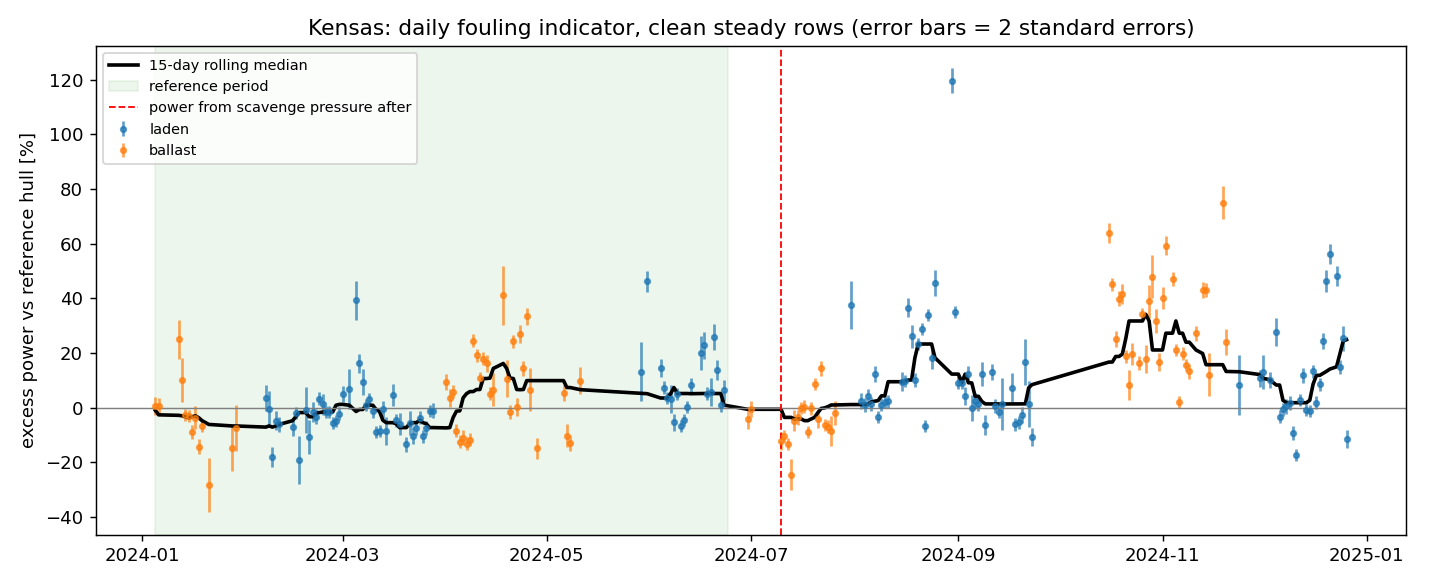
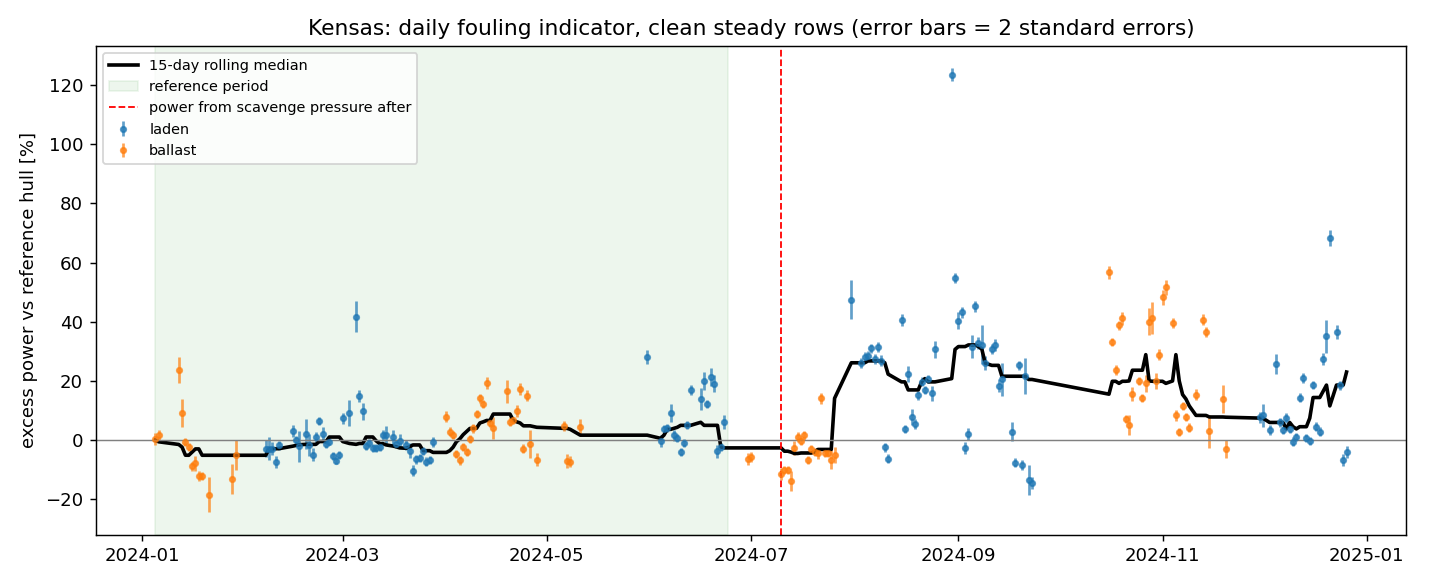
Use the speed log as speed, clean placeholder currents, mark Jan 2025
- prepare_features.py: speed_kn = speed log minus 0.73 kn on 29 Jul - 16 Oct (DQ-05), GPS minus current only as fallback (DQ-19); Provider S placeholder rows and MB all-zero currents set to NaN (DQ-06, DQ-26); waves stay S first (MB first tested, fits worse, DQ-28)
- submission.py: uses speed_kn; 'power source' column (torquemeter / scavenge / none) marks Jan 2025 rows without propulsion data (DQ-07)
- Reference-period residual spread of the expected-power fit 13.2 % -> 7.9 %; speed baseline MAPE 3.97 % -> 2.39 %
- data-quality log and README updated; fouling_trend.png regenerated

diff --git a/src/prepare_features.py b/src/prepare_features.py
@@ -9,7 +9,11 @@ What it does
        - drafts: sensors read 0 all year -> displacement, drafts and trim from the noon reports
        - power: torquemeter wrong from 10 Jul 2024 and when it drops out to 0 -> virtual power from
          scavenge air pressure and engine rpm (fuel flow is not used: the fuel meter drifts from Oct, DQ-18)
-       - speed: speed log drifts -> speed through water = GPS speed minus current along the heading
+       - weather: Provider S placeholder rows (DQ-06) and Provider MB all-zero currents (DQ-26) -> NaN
+       - speed: speed log (measured speed through water) with its offset removed on 29 Jul - 16 Oct (DQ-05);
+         the modelled currents explain too little of STW - SOG to rebuild speed from GPS (DQ-19).
+         GPS speed minus current is kept as stw_gps_kn and used where the speed log is missing
+       - waves: Provider S first (it is the only source of wave direction); MB first was tested and fits worse (DQ-28)
   3. Builds physics-based features (log power, log speed, wind and wave components)
   4. Adds filter flags (steady sailing, calm weather) and split helpers (reference period, week)
 """
@@ -28,9 +32,16 @@ PROCESSED = os.path.join(HERE, "..", "data", "processed")
 KN = 1.94384  # m/s -> knots
 TORQUE_OK_UNTIL = "2024-07-10"   # torquemeter trusted before this date
 REFERENCE_END = "2024-06-24"     # reference period for the baseline: 1 Jan to 23 Jun 2024
+STW_OFFSET = ("2024-07-29", "2024-10-17", 0.73)  # DQ-05: speed log − SOG is +1.16 kn here vs +0.43 kn laden elsewhere
+                                                  # (the period is all laden; ballast elsewhere +0.12 kn)
 
 # ---------------------------------------------------------------- 1. load
 m = pd.read_csv(os.path.join(PROCESSED, "kensas_10min.csv"), index_col="time", parse_dates=True)
+# placeholder weather -> NaN, before the hourly values are interpolated into their neighbours
+s_fill = (m.s_cur_e == -0.4) & (m.s_cur_n == -0.4) & (m.s_sst.round(1) == 6.0)          # DQ-06
+m.loc[s_fill, ["s_sst", "s_cur_e", "s_cur_n", "s_tp", "s_hs", "s_wave_deg"]] = np.nan
+mb_zero = (m.mb_cur_e == 0) & (m.mb_cur_n == 0)                                            # DQ-26
+m.loc[mb_zero, ["mb_cur_e", "mb_cur_n"]] = np.nan
 weather = [c for c in m.columns if c.startswith(("s_", "mb_"))]
 m[weather] = m[weather].interpolate(limit=6, limit_area="inside")  # hourly -> 10 min, gaps up to 1 h
 
@@ -48,15 +59,21 @@ out["draft_aft"] = noon["Aft Draft"].reindex(day).values
 out["trim_m"] = out.draft_aft - out.draft_fwd             # + = by the stern
 out["laden"] = out.disp_t > 55000
 
-# ---------------------------------------------------------------- 2b. speed through water from GPS
+# ---------------------------------------------------------------- 2b. speed through water
 h = np.deg2rad(m.heading_deg)
 cur_s = (m.s_cur_e * np.sin(h) + m.s_cur_n * np.cos(h)) * KN
 cur_mb = (m.mb_cur_e * np.sin(h) + m.mb_cur_n * np.cos(h)) * KN
 out["current_along_kn"] = pd.concat([cur_s, cur_mb], axis=1).mean(axis=1)  # + = current pushing the ship
 out["sog_kn"] = m.sog_kn
 out["stw_log_kn"] = m.stw_kn
-out["stw_gps_kn"] = m.sog_kn - out.current_along_kn                      # use this as speed
+out["stw_gps_kn"] = m.sog_kn - out.current_along_kn                      # GPS speed minus modelled current
 out["log_bias_kn"] = out.stw_log_kn - out.stw_gps_kn                      # sensor check
+# speed used by the models: the speed log, its offset removed where it reads high (DQ-05), GPS-based where it is missing
+off_from, off_to, off_kn = STW_OFFSET
+stw = out.stw_log_kn.copy()
+stw[(out.index >= pd.Timestamp(off_from, tz=out.index.tz)) & (out.index < pd.Timestamp(off_to, tz=out.index.tz))] -= off_kn
+out["speed_kn"] = stw.fillna(out.stw_gps_kn)
+out["speed_source"] = np.where(stw.notna(), "speed log", np.where(out.stw_gps_kn.notna(), "gps - current", "none"))
 
 # ---------------------------------------------------------------- 2c. power: measured, virtual, and the one to use
 out["shaft_rpm"] = m.shaft_rpm.abs()
@@ -97,7 +114,7 @@ out["power_source"] = np.where(use_meas, "torquemeter", "scavenge")
 
 # ---------------------------------------------------------------- 3. physics features
 out["log_power"] = np.log(out.power_kw.where(out.power_kw > 0))
-out["log_speed"] = np.log(out.stw_gps_kn.where(out.stw_gps_kn > 0))
+out["log_speed"] = np.log(out.speed_kn.where(out.speed_kn > 0))
 out["log_disp"] = np.log(out.disp_t)
 rel = np.deg2rad(m.wind_rel_deg)
 out["wind_rel_kn"] = m.wind_rel_kn
@@ -105,7 +122,7 @@ out["wind_head_kn"] = m.wind_rel_kn * np.cos(rel)                          # + =
 out["wind_side_kn"] = (m.wind_rel_kn * np.sin(rel)).abs()
 out["wind_head2"] = out.wind_head_kn * out.wind_rel_kn                     # ~ wind resistance, keeps the sign
 out["wind_true_kn"] = np.hypot(m.s_wind_e, m.s_wind_n) * KN
-out["hs_m"] = m.s_hs.fillna(m.mb_hs)                                       # significant wave height
+out["hs_m"] = m.s_hs.fillna(m.mb_hs)   # wave height: S first. MB first was tested (DQ-28) and fits worse: only S has wave direction
 wave_rel = np.deg2rad((m.s_wave_deg - m.heading_deg) % 360)
 out["wave_head_m"] = out.hs_m * np.cos(wave_rel)                            # + = head seas
 out["hs2"] = out.hs_m ** 2
@@ -114,7 +131,7 @@ out["sea_temp_c"] = m.s_sst            # NOT for the baseline model (acts as a c
 out["depth_m"] = m.depth_m             # echosounder, sparse
 
 # ---------------------------------------------------------------- 4. flags and split helpers
-out["steady"] = ((out.stw_gps_kn > 8) & (out.shaft_rpm > 55) & (m.shaft_rpm_sd < 1) & (m.stw_kn_sd < 0.3)
+out["steady"] = ((out.speed_kn > 8) & (out.shaft_rpm > 55) & (m.shaft_rpm_sd < 1) & (m.stw_kn_sd < 0.3)
                  & (m.sog_kn_sd < 0.3) & (m.heading_deg_sd < 2) & (m.turn_rate.abs() < 0.5)
                  & out.disp_t.notna() & (out.power_kw > 800))
 out["calm"] = (out.wind_true_kn < 16) & (out.hs_m < 2.0)

diff --git a/src/models/submission.py b/src/models/submission.py
@@ -16,6 +16,11 @@ Method
      measured power minus measured speed, using the local exponent b of the clean curve
   4. Uncertainty = robust spread of the residuals in the reference period, plus the error of the
      virtual power (scavenge air pressure + engine rpm) where the torquemeter is not used
+  Speed is `speed_kn` from prepare_features.py (speed log, offset removed on 29 Jul - 16 Oct, DQ-05).
+  Jan 2025 (blind month) has no power, torque or engine rpm at sea (DQ-07), so its rows carry speed only:
+  no expected power, fouling or speed loss can be computed there. The 'power source' column says 'none'.
+  The wind terms use the anemometer as measured; its mast-height bias (DQ-27) is constant all year, so the
+  reference-period fit absorbs it.
 """
 import os
 import numpy as np
@@ -67,7 +72,7 @@ pd.DataFrame({
 
 # ---- 2. reference-period correction on top of the clean curve
 m = pd.read_csv(os.path.join(PROCESSED, "model_table.csv"), index_col="time", parse_dates=True)
-v, p, disp = m.stw_gps_kn, m.power_kw, m.disp_t
+v, p, disp = m.speed_kn, m.power_kw, m.disp_t
 usable = (v > 5) & (p > 500) & disp.notna()
 m["p_clean"] = np.nan
 m.loc[usable, "p_clean"] = np.exp(interp_disp(fit_p, v[usable], disp[usable]))
@@ -128,7 +133,7 @@ out = pd.DataFrame({
     "outlier": m.outlier,
     # the template's free columns AAA / BBB / XXX
     "steady": m.steady,
-    "torque trusted": m.power_source == "torquemeter",
+    "power source": np.where(p.notna(), m.power_source, "none"),   # torquemeter / scavenge / none (e.g. Jan 2025)
     "laden": m.laden,
 })
 out.to_csv(os.path.join(OUT, "Kensas_Model1_Timeseries.csv"), index=False)
@@ -138,6 +143,9 @@ c = m[m.clean]
 print("reference fit on %d rows, robust residual sd %.1f%%" % (train.sum(), 100 * sd_ref))
 print("correction coefficients:", dict(zip(F, corr.coef_.round(4))), "intercept %.3f" % corr.intercept_)
 print("rows: %d total, %d with expected power, %d clean" % (len(m), ok.sum(), m.clean.sum()))
+blind = m.index >= pd.Timestamp("2025-01-01", tz=m.index.tz)
+print("Jan 2025: %d rows, %d moving above 5 kn, %d with expected power (no power or engine rpm at sea, DQ-07)"
+      % (blind.sum(), (blind & (v > 5)).sum(), (blind & ok).sum()))
 mon = c.groupby([c.index.strftime("%Y-%m"), "laden"]).agg(
     fouling_pct=("fouling_pct", "median"), speed_loss_kn=("speed_loss_kn", "median"), n=("fouling_pct", "size"))
 print(mon[mon.n >= 30].round(2).to_string())

diff --git a/docs/data_quality_log.md b/docs/data_quality_log.md
@@ -35,9 +35,9 @@ The first rows are **candidates from the first-pass scripts (19 Oct)**. They hav
 | DQ-02 | `shaft_kw`, `shaft_torque_nm` | from ~10–19 Jul 2024 | drift or bias | Torquemeter power reads about 23 % low from July: torquemeter ÷ turbocharger-based power is 1.00 (Jan – 9 Jul), 0.76 (19 Jul – 21 Sep) and 0.77 (16 Oct – Dec); scavenge-based power gives the same (branch `fix/scavenge-power` note). The larger second step in fuel per kWh (+64 % from 16 Oct) is the fuel meter (DQ-18), not the torquemeter. The torquemeter came back from the late-June port stay with the wrong sign (DQ-03), pointing to work on the sensor; a cleaning in the same stay cannot be ruled out | `01_propulsion.ipynb` §6d, §6i; `04_noon_reports.ipynb` §3b | all power readings after ~19 Jul | Raw power hides fouling | Replace power after July with air-side virtual power (scavenge pressure or turbocharger speed + engine rpm), as on branch `fix/scavenge-power` | | open (verified) | mp, 19 Oct; updated 28 Oct |
 | DQ-03 | `shaft_rpm`, `shaft_kw`, `shaft_torque_nm` | 53 days, 8 Jan – 29 Dec 2024; 118 h of 123 h in July (10–16 Jul) | sign or unit | Torquemeter reports astern (rpm about −90, negative power and torque) while the engine runs ahead (`me_rpm` about +90) and the ship sails at 13.5 kn. Engine rpm is the reference: only 722 moments (3 h) are real astern, with engine and shaft both negative | `01_propulsion.ipynb` §2, §6c | 29,415 moments, 123 h | abs() on all negatives would also flip real astern; astern counts are inflated | Flip the sign only where the engine runs ahead; keep real astern | | open (verified) | mp, 19 Oct; updated 22 Oct |
 | DQ-04 | `shaft_torque_nm` | all year | sign or unit | Logged as N·m, but power / (2π·rpm/60·torque) = 1.0000 with torque in kN·m (p1–p99: 0.973–1.028) | `01_propulsion.ipynb` §6a | all readings (1.25 M checked) | Wrong by ×1000 if used as N·m | Treat as kN·m | | open (verified) | mp, 19 Oct; updated 22 Oct |
-| DQ-05 | `stw_kn` | 29 Jul – 16 Oct 2024 | drift or bias | Speed log reads +1.2 kn above GPS speed (vs +0.3 kn before and after). The offset is the same in every heading sector (N +1.2, E +1.2, S +1.1 kn), so it is a sensor offset, not a current. Slip from GPS speed rises (laden 10 → 15 %) while slip from STW barely moves (6.8 → 8.5 %): the speed log hides a real loss. Ends right after the Sep–Oct logger gap (DQ-08) | `02_speed_navigation.ipynb` §6b, §6c, §6d | 55 days | Speed too high → fouling hidden | Use SOG for this period (currents average out over days), or STW minus 0.9 kn | | open (verified) | mp, 19 Oct; updated 28 Oct |
-| DQ-06 | `s_sst`, `s_cur_e`, `s_cur_n`, `s_tp`, `s_hs`, `s_wave_deg` | 65 days | stuck or placeholder value | Identical values in every column: 6.0, −0.4, −0.4, 1.1, 0.01, 10. 900 of the 1,212 placeholder hours are in port or at anchor: likely 'no ocean data' near land (see DQ-26 for the MB equivalent) | `mp_raw_inventory.ipynb` §4; `03_weather.ipynb` §1 | 1,212 of 9,304 hourly rows | Fake weather/current → wrong corrections | Set to NaN; use Provider MB where available | | open (verified) | mp, 20 Oct; updated 28 Oct |
-| DQ-07 | all | Jan 2025 | missing / gap | `Jan25.csv` has a header, day-first dates, an extra column, and no torque, power, fuel or engine-load data. While the ship sails (above 8 kn, 65 h), only GPS speed (100 %), the speed log (50 %) and hourly weather remain: engine rpm (0.7 %), heading (8 %) and the ship's wind sensor (0 %) are missing at sea but present in port. Removed on purpose for the blind test | `mp_raw_inventory.ipynb` §4; `02_speed_navigation.ipynb` §1b | 65 h of sailing | No rpm- or power-based model can be applied to Jan 2025 | Speed-only method for the Jan 2025 'current condition' | | open (verified) | mp, 19 Oct; updated 28 Oct |
+| DQ-05 | `stw_kn` | 29 Jul – 16 Oct 2024 | drift or bias | Speed log reads +1.2 kn above GPS speed (vs +0.3 kn before and after). The offset is the same in every heading sector (N +1.2, E +1.2, S +1.1 kn), so it is a sensor offset, not a current. Slip from GPS speed rises (laden 10 → 15 %) while slip from STW barely moves (6.8 → 8.5 %): the speed log hides a real loss. Ends right after the Sep–Oct logger gap (DQ-08) Correction used: −0.73 kn (laden vs laden; the period is all laden) | `02_speed_navigation.ipynb` §6b, §6c, §6d | 55 days | Speed too high → fouling hidden | Use SOG for this period (currents average out over days), or STW minus 0.9 kn | | implemented in `prepare_features.py`, needs team OK | mp, 19 Oct; updated 28 Oct |
+| DQ-06 | `s_sst`, `s_cur_e`, `s_cur_n`, `s_tp`, `s_hs`, `s_wave_deg` | 65 days | stuck or placeholder value | Identical values in every column: 6.0, −0.4, −0.4, 1.1, 0.01, 10. 900 of the 1,212 placeholder hours are in port or at anchor: likely 'no ocean data' near land (see DQ-26 for the MB equivalent) | `mp_raw_inventory.ipynb` §4; `03_weather.ipynb` §1 | 1,212 of 9,304 hourly rows | Fake weather/current → wrong corrections | Set to NaN; use Provider MB where available | | implemented in `prepare_features.py`, needs team OK | mp, 20 Oct; updated 28 Oct |
+| DQ-07 | all | Jan 2025 | missing / gap | `Jan25.csv` has a header, day-first dates, an extra column, and no torque, power, fuel or engine-load data. While the ship sails (above 8 kn, 65 h), only GPS speed (100 %), the speed log (50 %) and hourly weather remain: engine rpm (0.7 %), heading (8 %) and the ship's wind sensor (0 %) are missing at sea but present in port. Removed on purpose for the blind test | `mp_raw_inventory.ipynb` §4; `02_speed_navigation.ipynb` §1b | 65 h of sailing | No rpm- or power-based model can be applied to Jan 2025 | Speed-only method for the Jan 2025 'current condition' | | implemented in `submission.py` (power source = none), needs team OK | mp, 19 Oct; updated 28 Oct |
 | DQ-08 | all ship sensors | 24 Sep – 16 Oct 2024 | missing / gap | No sensor data for 22 days (longest gap for shaft, engine and fuel signals: 538.6 h). Weather continues | `mp_raw_inventory.ipynb` §1–2 | 22 days | Hole in the fouling trend right when it matters most | Keep the gap; never interpolate across it | | open | mp, 20 Oct |
 | DQ-09 | `shaft_rpm`, `shaft_kw`, `shaft_torque_nm` | — | — | **Merged into DQ-03.** The earlier reading (most negatives outside July are astern manoeuvres) was wrong: with engine rpm as the reference, most negatives are the sign fault and real astern is only 722 moments | `01_propulsion.ipynb` §2 | — | — | — | | rejected (merged into DQ-03) | mp, 20 Oct; updated 22 Oct |
 | DQ-10 | `shaft_kwh` | 13 Jan, 21 Jan, 14 Feb, 24 Feb, 1 Mar, 20 Mar, 26 May, 27 Aug 2024 | other | Energy counter goes down 8 times (largest −277,624 kWh on 20 Mar). Otherwise it matches integrated shaft power (ratio 0.999 per hour) | `01_propulsion.ipynb` §6g | 8 steps | Wrong if energy is computed from counter differences | Treat a decrease as a counter reset | | open (verified) | mp, 20 Oct; updated 22 Oct |
@@ -49,16 +49,16 @@ The first rows are **candidates from the first-pass scripts (19 Oct)**. They hav
 | DQ-16 | `thrust_kn` | all year | sign or unit | Logged thrust about −9,172 'kN' at 4–6 MW, where physics (towing-tank resistance / (1 − t)) gives +700 to +900 kN: negative and about 11× too large. Unit or calibration unknown. Also goes to 0 with the torquemeter dropouts (DQ-14) | `01_propulsion.ipynb` §6f | all readings | Absolute thrust unusable | Use only as a relative signal, or not at all | | open | mp, 22 Oct |
 | DQ-17 | `shaft_revs` | all year | sign or unit | Revolution counter rises 59.9× faster than integrated shaft rpm: it counts 1/60 revolution (or rpm-seconds), not revolutions. No unit in the metadata | `01_propulsion.ipynb` §6g | all readings | Wrong if read as revolutions | Divide by 60, or don't use | | open | mp, 22 Oct |
 | DQ-18 | `fo_kgh` | from 16 Oct 2024 | drift or bias | Fuel meter reads about 16 % high from mid-October: at the same load (2.5–3.5 MW band) fuel-based ÷ turbocharger-based power goes from 1.01 (Jan – 9 Jul, 454 h) to 1.18 (16 Oct – Dec, 1,066 h), while scavenge-based and turbocharger-based power agree all year. Noon-report fuel does not show the shift because it is most likely read from the same meter (DQ-29). An earlier version of this row was rejected on the noon evidence; that rejection was wrong | `04_noon_reports.ipynb` §3b | all fuel readings after 16 Oct | Fuel-based power or fuel-based fouling indicators show fake fouling after October | Don't use fuel after 16 Oct without a correction; use air-side virtual power | | open (verified) | mp, 22 Oct; updated 28 Oct |
-| DQ-19 | `s_cur_e/n`, `mb_cur_e/n` | all year | other | Modelled currents explain only part of STW − SOG: slope −0.93 (S) and −0.78 (MB) instead of −1, correlation −0.54 / −0.61 (before the DQ-05 offset). Agrees with Fritz & Schmidt (HullPIC 2026) that the providers miss observed currents in this dataset | `02_speed_navigation.ipynb` §6a | all hours | STW rebuilt from SOG − current is only partly corrected | Prefer measured STW where the speed log is healthy | | open | mp, 28 Oct |
+| DQ-19 | `s_cur_e/n`, `mb_cur_e/n` | all year | other | Modelled currents explain only part of STW − SOG: slope −0.93 (S) and −0.78 (MB) instead of −1, correlation −0.54 / −0.61 (before the DQ-05 offset). Agrees with Fritz & Schmidt (HullPIC 2026) that the providers miss observed currents in this dataset | `02_speed_navigation.ipynb` §6a | all hours | STW rebuilt from SOG − current is only partly corrected | Prefer measured STW where the speed log is healthy | | implemented in `prepare_features.py`, needs team OK | mp, 28 Oct |
 | DQ-20 | `stw_kn` | Jan – Jul and Oct – Dec 2024 | drift or bias | Outside the DQ-05 offset the speed log still reads +0.3 kn above GPS speed (median while cruising); the modelled currents do not remove it (+0.2 kn after correction) | `02_speed_navigation.ipynb` §6a, §6b | small | About 2–3 % of speed; affects absolute speed-loss levels, not trends | Note as a limitation | | open | mp, 28 Oct |
 | DQ-21 | `depth_m` | all year | missing / gap | Echosounder logs only 11 % of sailing time (0–2 % in Aug–Oct), and 40 % of its readings are below 30 m: it seems to be switched on mainly in coastal or shallow water | `02_speed_navigation.ipynb` §6f | 11 % coverage | Cannot be used as an ISO 19030 shallow-water filter for most of the year | Treat missing depth as unknown, not deep; flag shallow readings | | open | mp, 28 Oct |
 | DQ-22 | `sog_kn` | 69 runs, mostly Mar 2024 | stuck or placeholder value | GPS speed stays exactly constant for 30 min or more while sailing (52 h in total, longest 2.5 h). With 0.1 kn resolution some flat runs are normal, but hours-long ones suggest a GPS hold | `02_speed_navigation.ipynb` §3 | 52 h | Small | Flag; check against STW in those runs | | open | mp, 28 Oct |
 | DQ-23 | Noon `Slip` | all year | other | Noon slip correlates 0.73 with apparent slip from GPS speed and engine rpm (median difference −1.2 points), but has extreme values (−60 to +59 %; physical slip is about 0–20 %) and reads 0 on port days | `04_noon_reports.ipynb` §4 | 16 days outside −10 to 30 % | Small; usable as a cross-check | Prefer slip computed from sensors | | open | mp, 28 Oct |
 | DQ-24 | Noon `Sea Temp` | 8 Mar 2024 | out of range | Typo: 214 °C (probably 21.4). Without it, noon sea temperature correlates 0.83 with Provider S | `04_noon_reports.ipynb` §4 | 1 day | Small | Set to NaN | | open | mp, 28 Oct |
 | DQ-25 | Noon `Displacement` | 5 Oct 2024 | timestamp | Displacement changes by 13,693 t on a day the ship is at sea all day (and the day before); cargo cannot change at sea, so it is a late report. Many large changes 26 Sep – 11 Oct fall in the logger gap (DQ-08), where position is unknown: they show the ship discharging and loading, i.e. trading normally during the gap | `04_noon_reports.ipynb` §2b | 1 day | Wrong laden/ballast label for a day around port calls | Shift loading changes to the nearest port stay | | open | mp, 28 Oct |
-| DQ-26 | `mb_cur_e`, `mb_cur_n` | all year, mostly in port | stuck or placeholder value | Provider MB currents are exactly 0 (east and north together) in 1,609 hours, 1,129 of them in port or at anchor and 239 while sailing; the rest of the row looks normal. Likely 'no ocean data' near land (the MB version of DQ-06) | `03_weather.ipynb` §1 | 1,609 hours | Fake zero currents; small at sea | Set to NaN when both are exactly 0 | | open | mp, 28 Oct |
-| DQ-27 | `wind_rel_kn` vs `s_wind_e/n`, `mb_wind_kn` | all year | other | Wind sources agree reasonably: S vs MB correlation 0.84; ship anemometer (converted to true wind) vs S 0.75, vs MB 0.85. The ship measures +2.4 kn vs S and +3.2 kn vs MB, steady all year: expected, the anemometer sits high on the mast while providers give wind at 10 m | `03_weather.ipynb` §3, §4 | 5,866 sailing hours | Choice of source shifts the wind correction | Use the anemometer with a height correction to 10 m (ISO 15016); providers only where it is missing | | open | mp, 28 Oct |
-| DQ-28 | `s_hs`, `mb_hs` | all year | other | Provider S wave height is systematically lower than MB (median 0.66 vs 1.80 m, correlation 0.76). MB also reports swell separately, so S may describe wind sea only. No on-board wave measurement to decide | `03_weather.ipynb` §2, §4 | all hours | First-pass `prepare_features.py` uses S first, which likely underestimates waves | Use MB (total sea) as main source, S as a sensitivity check; report as a limitation | | open | mp, 28 Oct |
+| DQ-26 | `mb_cur_e`, `mb_cur_n` | all year, mostly in port | stuck or placeholder value | Provider MB currents are exactly 0 (east and north together) in 1,609 hours, 1,129 of them in port or at anchor and 239 while sailing; the rest of the row looks normal. Likely 'no ocean data' near land (the MB version of DQ-06) | `03_weather.ipynb` §1 | 1,609 hours | Fake zero currents; small at sea | Set to NaN when both are exactly 0 | | implemented in `prepare_features.py`, needs team OK | mp, 28 Oct |
+| DQ-27 | `wind_rel_kn` vs `s_wind_e/n`, `mb_wind_kn` | all year | other | Wind sources agree reasonably: S vs MB correlation 0.84; ship anemometer (converted to true wind) vs S 0.75, vs MB 0.85. The ship measures +2.4 kn vs S and +3.2 kn vs MB, steady all year: expected, the anemometer sits high on the mast while providers give wind at 10 m | `03_weather.ipynb` §3, §4 | 5,866 sailing hours | Choice of source shifts the wind correction | Use the anemometer with a height correction to 10 m (ISO 15016); providers only where it is missing | | no change needed (constant bias, absorbed by the reference fit) | mp, 28 Oct |
+| DQ-28 | `s_hs`, `mb_hs` | all year | other | Provider S wave height is systematically lower than MB (median 0.66 vs 1.80 m, correlation 0.76). MB also reports swell separately, so S may describe wind sea only. No on-board wave measurement to decide Tested on 28 Oct: MB first makes the reference fit worse (residual spread 14.3 % vs 13.2 %), probably because only S has wave direction; S first is kept | `03_weather.ipynb` §2, §4 | all hours | First-pass `prepare_features.py` uses S first, which likely underestimates waves | Use MB (total sea) as main source, S as a sensitivity check; report as a limitation | | tested, keep S first (see note) | mp, 28 Oct |
 | DQ-29 | Noon `Consumption for Propulsion` | all year | other | Noon fuel follows the fuel meter all year (meter/noon 1.01, 1.05, 1.02 in the three periods; correlation 0.81; best with a noon-to-noon day ending ≈ 09:00 UTC), even after mid-October when two air-side signals show the meter shifting +16 %. So noon fuel is most likely derived from the meter, not measured independently (e.g. tank soundings). Also missing on 116 days, 47 of them at sea | `04_noon_reports.ipynb` §1, §3, §3b | 223 days compared | Cannot validate the fuel meter; inherits its October shift | Don't use noon fuel as an independent check | | open | mp, 28 Oct |
 | DQ-30 | | | | | | | | | | | |
 
@@ -87,3 +87,11 @@ The first rows are **candidates from the first-pass scripts (19 Oct)**. They hav
 - Plausible cause: noon reports show about 11 port days at 27 °C between 25 Sep and 10 Oct (inside the DQ-08 gap), just before the high readings.
 - Weak points: the only reference ballast at this power is one April voyage, so a route or current difference can't be ruled out. Laden Dec (59k t) has no laden reference near its displacement and rests on the towing-curve interpolation; a cleaning during the Nov stops (196 h) would also explain it, but only the cleaning-events file can tell.
 - For the report: quote Oct–Nov ballast as about 0.7 kn speed loss (about 20 % power) against the April voyage, not confirmed by the propeller law, rather than the 23–31 % monthly medians.
+
+**Speed, current and wave fixes (28 Oct, `prepare_features.py` and `submission.py`, branch `fix/scavenge-power`).** Waiting for team OK.
+- Placeholder weather set to NaN before interpolation: Provider S placeholder rows (DQ-06) and Provider MB all-zero currents (DQ-26).
+- Speed used by the models is now `speed_kn`: the speed log, minus 0.73 kn on 29 Jul – 16 Oct (DQ-05), GPS speed minus current only where the log is missing. `stw_gps_kn` is kept. Reason: the modelled currents explain too little of STW − SOG (DQ-19).
+- Tested one fix at a time (reference-period robust residual spread of the expected-power fit; lower is better): none 13.2 %, currents only 13.2 %, speed log only 8.0 %, MB waves first 14.3 % (rejected, DQ-28), currents + speed 7.9 % (kept). The speed baseline's speed MAPE drops from 3.97 % to 2.39 % (implied exponent V^3.1).
+- Monthly median fouling [% power] on clean rows, before → after: Aug (laden) 9 → 20, Sep (laden) 1 → 25, Oct (ballast) 31 → 25, Nov (ballast) 23 → 11, Dec (laden) 3 → 4; Jan–Jun stay within ±6 %. The earlier "50 → 31 %" style numbers in the note above are superseded.
+- The Aug–Sep rise is supported by a measure that uses neither the speed log, the torquemeter nor the current models: apparent slip from GPS speed and engine rpm goes from 10 % (laden, spring) to 15–16 % (laden, Aug–Sep). It follows the long idle port stays of late June and July (DQ-12). Its size depends on the speed-log correction: ±0.1 kn ≈ ±3 points.
+- Jan 2025 rows carry speed only, `power source` = `none` (DQ-07). The template asks for 1-minute rows; the timeseries is still 10-minute, pending the team's resolution decision.

diff --git a/README.md b/README.md
@@ -41,7 +41,8 @@ Put personal exploration in `notebooks/`, named with your initials (e.g. `mp_eda
 
 - **Drafts:** the draft sensors read 0 all year, so drafts, trim and displacement come from the noon reports.
 - **Power:** from 10 Jul 2024 the torquemeter under-reads by about 18%, and by about 23% from mid Oct. After 10 Jul, and when the torquemeter drops out to 0, we use virtual power from scavenge air pressure and engine rpm (1.0% holdout error). Fuel flow is not used: the fuel meter reads high from mid Oct (DQ-18).
-- **Speed:** the speed log over-reads by about 1.2 kn in Aug and Sep. Speed is GPS speed minus the current along the heading.
+- **Speed:** the speed log reads about 0.73 kn too high from 29 Jul to 16 Oct (DQ-05). Speed (`speed_kn`) is the speed log with that offset removed; GPS speed minus the modelled current is only a fallback, because the weather providers' currents explain too little (DQ-19).
+- **Weather:** Provider S placeholder rows and Provider MB all-zero currents are set to missing (DQ-06, DQ-26).
 
 ## Team rules
 
